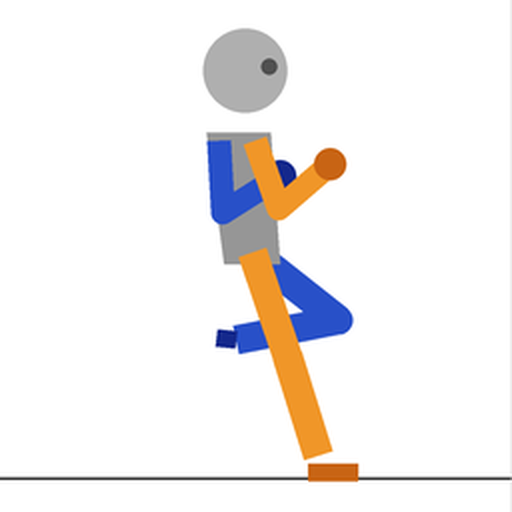
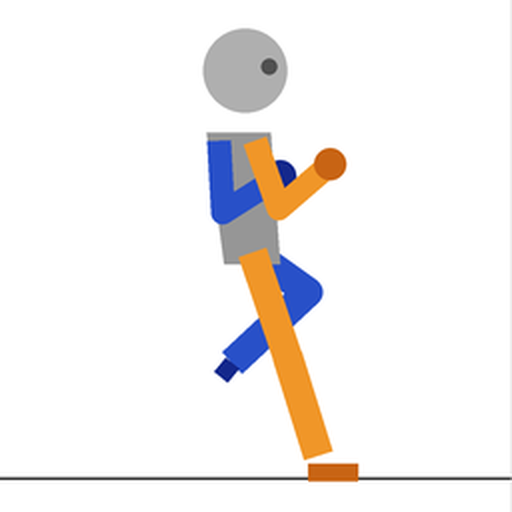
normalize_sheet: parts belong to the slot of their centre (Tiago hk foot no longer clipped / leaking); pose guides and prompts for the crouching attacks
Claude-Session: https://claude.ai/code/session_01C1fwd4EURPGqUfp38heDDX

diff --git a/tools/pose_guide.py b/tools/pose_guide.py
@@ -32,6 +32,34 @@ def P(**kw):
     return p
 
 
+# crouch (about 150 px high, as the crouch sprites)
+CROUCH = dict(squat=True, hip=(118, 190), lean=20, lead_foot=(164, 231), rear_foot=(80, 231),
+              lead_hand=(166, 120), rear_hand=(148, 126))
+
+
+def Q(**kw):
+    p = dict(CROUCH)
+    p.update(kw)
+    return p
+
+
+def crouch_attacks():
+    return {
+        'c_lp': [Q(lead_hand=(180, 118), lean=22),
+                 Q(lead_hand=(208, 114), lean=26, hip=(122, 190)),      # punch at stomach height of a stander
+                 Q(lead_hand=(180, 120), lean=22)],
+        'c_lk': [Q(lead_foot=(178, 222), lean=16),
+                 Q(lead_foot=(236, 226), lean=8, hip=(114, 192)),       # foot along the floor, ankle height
+                 Q(lead_foot=(184, 228), lean=14)],
+        'sweep': [Q(hip=(112, 204), lean=34, rear_hand=(98, 232), lead_hand=(168, 168), lead_foot=(158, 231)),
+                  Q(hip=(110, 206), lean=38, rear_hand=(96, 232), lead_hand=(166, 174),
+                    lead_foot=(236, 228), arrow=((170, 236), (226, 236))),   # leg sweeps along the floor
+                  Q(hip=(112, 204), lean=34, rear_hand=(98, 232), lead_hand=(168, 170),
+                    lead_foot=(196, 230), arrow=((232, 222), (204, 222))),
+                  Q()],
+    }
+
+
 # per fighter and animation: one pose per frame (only what differs from the guard)
 POSES = {
     'tiago': {
@@ -46,7 +74,7 @@ POSES = {
         'lk': [P(lead_foot=(150, 170), knee_lead=1, lean=-2, hip=(118, 126)),             # chamber
                P(lead_foot=(228, 124), lean=-10, hip=(114, 124), lead_hand=(150, 80)),   # ponteira, x 202-236
                P(lead_foot=(160, 190), lean=-2, hip=(118, 126))],
-        'hk': [P(rear_foot=(118, 170), lean=-6, hip=(126, 126)),                          # rear knee rises
+        'hk': [P(rear_foot=(120, 178), rear_knee=(154, 146), lean=-6, hip=(126, 126)),                          # rear knee rises
                P(rear_foot=(228, 72), lean=-24, hip=(112, 124), lead_foot=(140, 231),
                  lead_hand=(150, 96), rear_hand=(100, 110)),                              # martelo, x 207-240 y 56-85
                P(rear_foot=(170, 150), lean=-12, hip=(120, 126), lead_foot=(140, 231)),
@@ -77,6 +105,10 @@ POSES = {
                P(lean=4)],
     },
 }
+
+
+for _f in POSES:
+    POSES[_f].update(crouch_attacks())
 
 
 def ik(root, target, l1, l2, bend):
@@ -116,6 +148,10 @@ def draw(pose, d, ox):
             dx, dy = foot[0] - knee[0], foot[1] - knee[1]
             n = math.hypot(dx, dy) or 1
             ank = (knee[0] + SHIN * dx / n, knee[1] + SHIN * dy / n)
+        elif pose.get('squat'):                    # crouch: of the two knee positions the higher one
+            k1, a1 = ik(hip, foot, THIGH, SHIN, 1)
+            k2, a2 = ik(hip, foot, THIGH, SHIN, -1)
+            knee, ank = (k1, a1) if k1[1] <= k2[1] else (k2, a2)
         else:
             knee, ank = ik(hip, foot, THIGH, SHIN, bend)
         L([hip, knee, ank], cols[0], 15)

diff --git a/tools/normalize_sheet.py b/tools/normalize_sheet.py
@@ -51,6 +51,14 @@ def main():
     col[bg] = imf.OUTLINE_RGB
     col = np.pad(col, ((pad, pad), (pad, pad), (0, 0)), mode='edge')
     msk = np.pad((~bg).astype(np.uint8) * 255, pad, mode='constant')
+    # each connected part of the figures belongs to the slot of its centre: a kicking foot may reach into
+    # the neighbouring slot and must neither be cut off nor appear in the neighbour's cell
+    from scipy import ndimage
+    lab, nlab = ndimage.label(msk > 0)
+    owner = np.zeros(nlab + 1, int)
+    for i, sl in enumerate(ndimage.find_objects(lab), start=1):
+        cx = (sl[1].start + sl[1].stop) / 2 - pad
+        owner[i] = min(a.frames - 1, max(0, int(cx // slot)))
     src_c = Image.fromarray(col)
     out = Image.new('RGB', (imf.CELL * a.frames, imf.CELL), KEY)
     for k in range(a.frames):
@@ -61,9 +69,7 @@ def main():
         box = (sx0, sy0, sx0 + imf.CELL / scale, sy0 + imf.CELL / scale)
         c = np.array(src_c.resize((imf.CELL, imf.CELL), Image.LANCZOS, box=box))
         # only this slot's figure: the cell window can reach into the neighbouring slots
-        mk = msk.copy()
-        mk[:, :pad + round(k * slot)] = 0
-        mk[:, pad + round((k + 1) * slot):] = 0
+        mk = np.where((lab > 0) & (owner[lab] == k), 255, 0).astype(np.uint8)
         m = np.array(Image.fromarray(mk).resize((imf.CELL, imf.CELL), Image.BOX, box=box)) >= 128
         c[~m] = KEY
         out.paste(Image.fromarray(c), (k * imf.CELL, 0))
